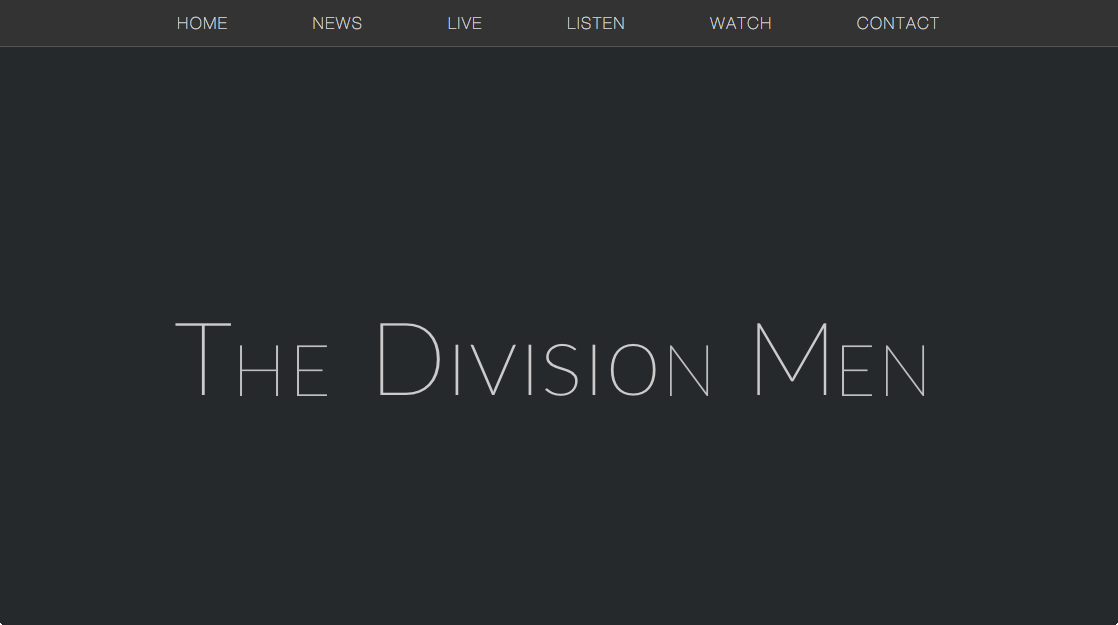
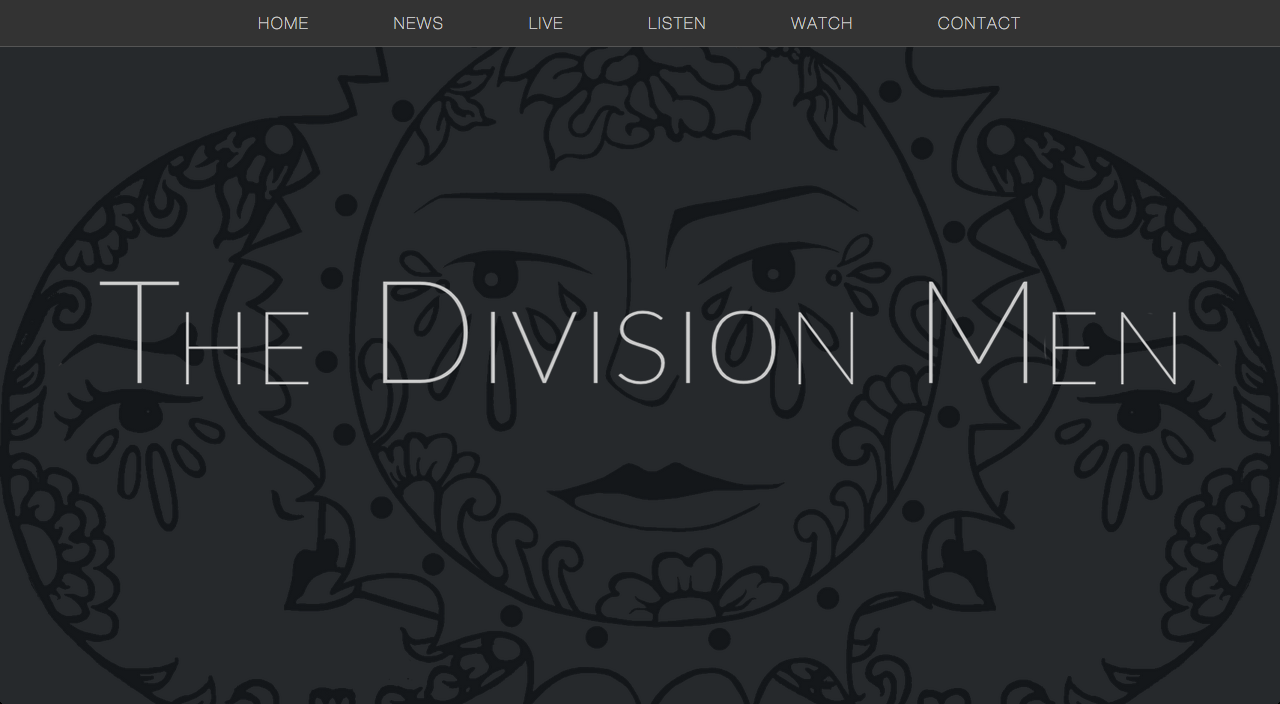
new image divisionmen

diff --git a/index.html b/index.html
@@ -110,8 +110,8 @@
 							</div>
 							<div class="4u">
 								<article class="style2">
-									<a href="http://divisionmen.herokuapp.com" target="_blank" class="image featured"><img src="images/divisionmen.png" alt="" /></a>
-									<h3><a href="http://divisionmen.herokuapp.com" target="_blank">The Division Men</a></h3>
+									<a href="http://divisionmen.com" target="_blank" class="image featured"><img src="images/divisionmen.png" alt="" /></a>
+									<h3><a href="http://divisionmen.com" target="_blank">The Division Men</a></h3>
 									<p class="left">Content management system built with Ruby on Rails for The Division Men website and complete website redesign.</p>
 								</article>
 							</div>
